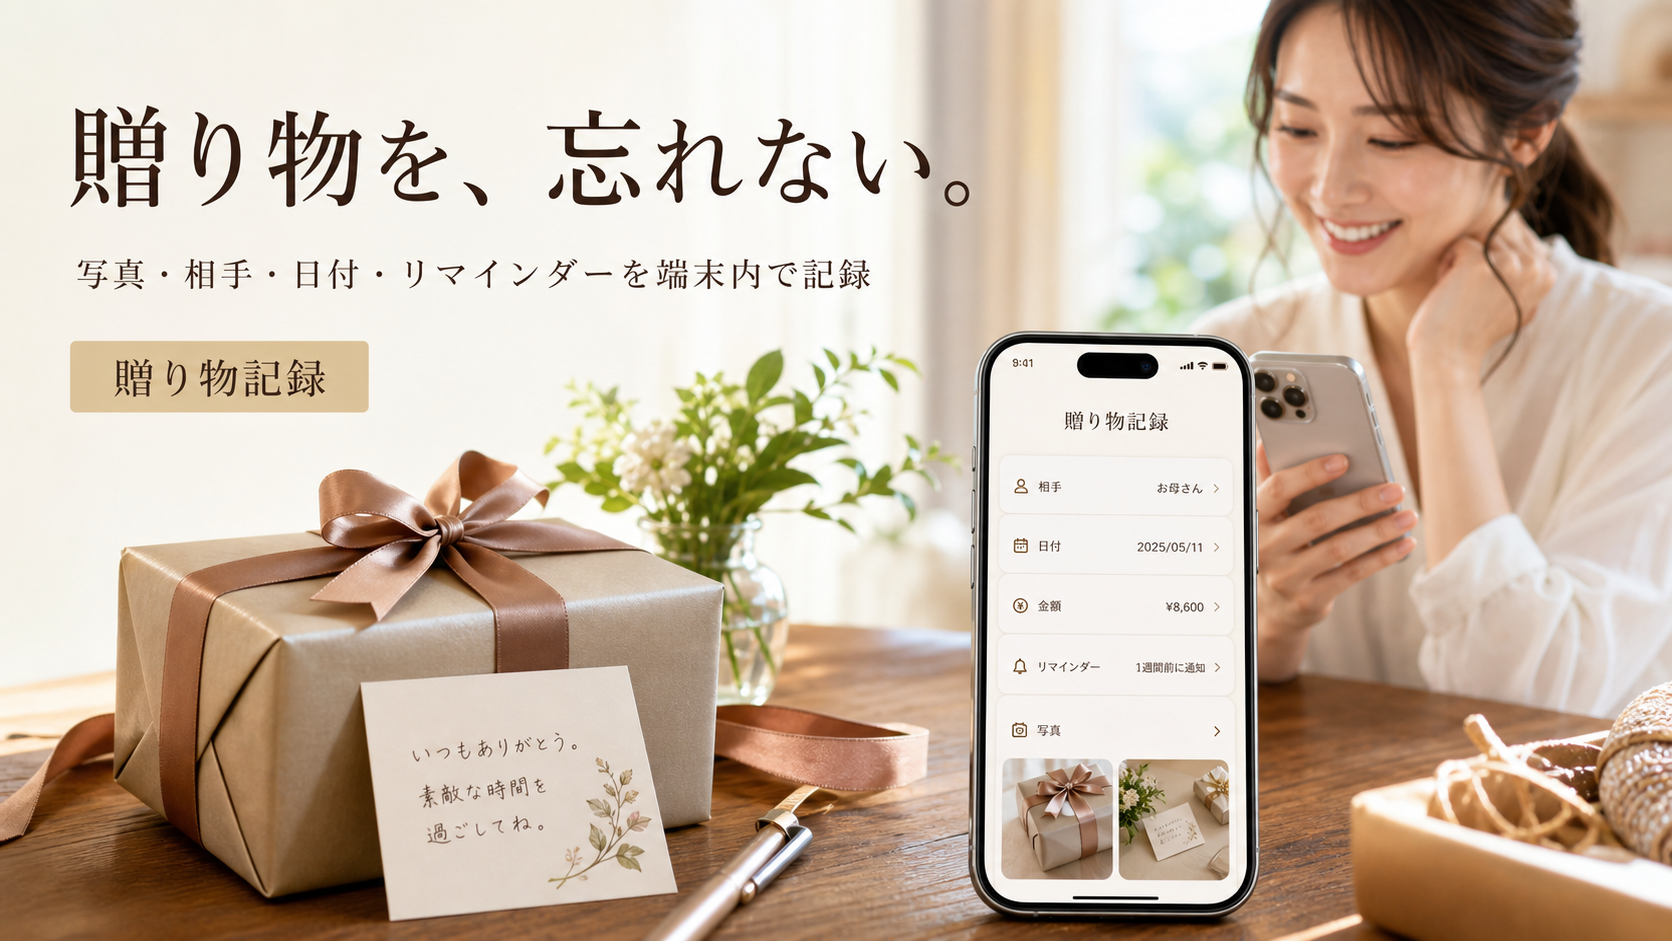
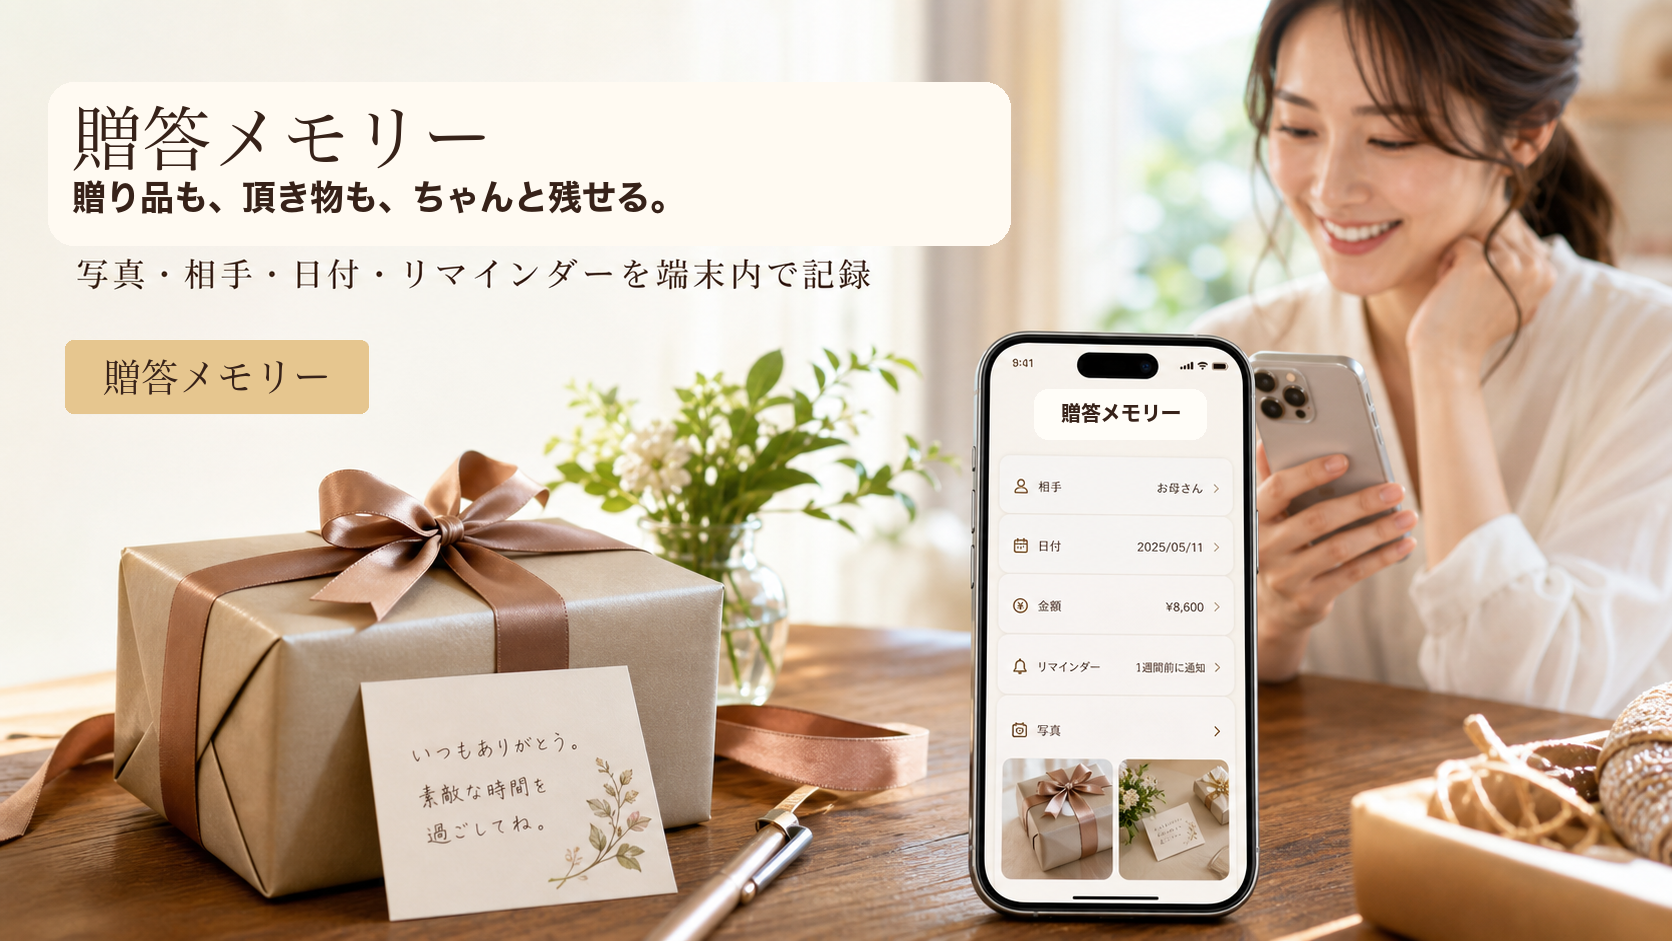
Restore varied LP visuals

Changed region(s): [[0.0311, 0.0616, 0.622, 0.2774], [0.0311, 0.3698, 0.2177, 0.4315], [0.622, 0.4315, 0.7153, 0.4623]]

diff --git a/manual.html b/manual.html
@@ -10,7 +10,7 @@
   <meta property="og:description" content="写真、相手、日付、金額目安、メモ、通知をiPhone内で残す贈答記録アプリの操作マニュアル。">
   <meta property="og:type" content="article">
   <meta property="og:url" content="https://okurimono-kiroku.bantex.jp/manual.html">
-  <meta property="og:image" content="https://okurimono-kiroku.bantex.jp/assets/app-ui-mockup.webp">
+  <meta property="og:image" content="https://okurimono-kiroku.bantex.jp/assets/ui-screens.png">
   <link rel="icon" href="assets/app-icon-premium.png">
   <link rel="preconnect" href="https://fonts.googleapis.com">
   <link rel="preconnect" href="https://fonts.gstatic.com" crossorigin>
@@ -811,7 +811,7 @@
       "@type": "HowTo",
       "name": "贈答メモリーの使い方",
       "description": "iPhoneで頂き物と贈り品を写真、相手、日付、金額目安、メモ、通知つきで記録する操作手順。",
-      "image": "https://okurimono-kiroku.bantex.jp/assets/app-ui-mockup.webp",
+      "image": "https://okurimono-kiroku.bantex.jp/assets/ui-screens.png",
       "step": [
         {
           "@type": "HowToStep",
@@ -865,7 +865,7 @@
           </div>
         </div>
         <figure class="image-frame">
-          <img src="assets/app-ui-mockup.webp" alt="贈答メモリーの記録一覧、人物履歴、カレンダー画面を並べた操作ガイド用スクリーンショット" width="1024" height="1024">
+          <img src="assets/ui-screens.png" alt="贈答メモリーの記録一覧、人物履歴、カレンダー画面を並べた操作ガイド用スクリーンショット" width="1672" height="941">
           <figcaption>左から記録一覧、人物履歴、カレンダー。普段はこの3画面を切り替えて使います。</figcaption>
         </figure>
       </div>
@@ -906,7 +906,7 @@
     <section id="record" class="manual-section" aria-labelledby="record-title">
       <div class="section-inner manual-grid">
         <figure class="image-frame phone-shot">
-          <img src="assets/app-ui-mockup.webp" alt="贈答メモリーの記録一覧画面。検索、絞り込み、並び替え、未返礼件数が見える" width="1024" height="1024">
+          <img src="assets/manual-record.jpg" alt="贈答メモリーの記録一覧画面。検索、絞り込み、並び替え、未返礼件数が見える" width="368" height="800">
           <figcaption>記録タブでは、検索、絞り込み、並び替え、未返礼確認を行います。</figcaption>
         </figure>
         <div class="manual-card">
@@ -983,7 +983,7 @@
           </ol>
         </div>
         <figure class="image-frame">
-          <img src="assets/app-ui-mockup.webp" alt="頂き物を写真付きで記録し、返礼候補を考える使用シーン" width="1024" height="1024">
+          <img src="assets/usage-recording.png" alt="頂き物を写真付きで記録し、返礼候補を考える使用シーン" width="1448" height="1086">
           <figcaption>頂き物を受け取った直後に写真と相手を残しておくと、あとから返礼を考えやすくなります。</figcaption>
         </figure>
       </div>
@@ -998,17 +998,17 @@
         </div>
         <div class="phone-row">
           <article class="phone-shot card">
-            <img src="assets/app-ui-mockup.webp" alt="記録一覧画面。日付順の贈答記録と未返礼件数を確認できる" width="1024" height="1024">
+            <img src="assets/manual-record.jpg" alt="記録一覧画面。日付順の贈答記録と未返礼件数を確認できる" width="368" height="800">
             <h3>記録一覧</h3>
             <p>最近の記録、未返礼、検索、頂き物/贈り品の絞り込みに使います。</p>
           </article>
           <article class="phone-shot card">
-            <img src="assets/app-ui-mockup.webp" alt="人物履歴画面。相手ごとに誕生日と記録件数が並ぶ" width="1024" height="1024">
+            <img src="assets/manual-history.jpg" alt="人物履歴画面。相手ごとに誕生日と記録件数が並ぶ" width="368" height="800">
             <h3>人物履歴</h3>
             <p>相手ごとに、頂き物と贈り品を時系列で確認します。</p>
           </article>
           <article class="phone-shot card">
-            <img src="assets/app-ui-mockup.webp" alt="カレンダー画面。誕生日、配送予定、返礼予定を月表示で確認できる" width="1024" height="1024">
+            <img src="assets/manual-calendar.jpg" alt="カレンダー画面。誕生日、配送予定、返礼予定を月表示で確認できる" width="368" height="800">
             <h3>カレンダー</h3>
             <p>誕生日、記念日、配送予定、返礼予定を月単位で確認します。</p>
           </article>
@@ -1035,7 +1035,7 @@
           </ol>
         </div>
         <figure class="image-frame phone-shot">
-          <img src="assets/app-ui-mockup.webp" alt="贈答メモリーのカレンダー画面。月表示で誕生日、配送予定、返礼予定が並んでいる" width="1024" height="1024">
+          <img src="assets/manual-calendar.jpg" alt="贈答メモリーのカレンダー画面。月表示で誕生日、配送予定、返礼予定が並んでいる" width="368" height="800">
           <figcaption>月表示で、次に準備する予定をまとめて確認できます。</figcaption>
         </figure>
       </div>
@@ -1044,7 +1044,7 @@
     <section id="reminder" class="manual-section alt" aria-labelledby="reminder-title">
       <div class="section-inner screen-grid">
         <figure class="image-frame">
-          <img src="assets/app-ui-mockup.webp" alt="贈答メモリーのリマインダー通知機能を説明する画像" width="1024" height="1024">
+          <img src="assets/reminder-flyer.png" alt="贈答メモリーのリマインダー通知機能を説明する画像" width="1122" height="1402">
           <figcaption>リマインダー通知は、用意する日を忘れないためのPRO機能です。</figcaption>
         </figure>
         <div class="manual-card">

diff --git a/index.html b/index.html
@@ -10,7 +10,7 @@
   <meta property="og:description" content="写真、相手、日付、金額目安、メモ、リマインダーをiPhone内でまとめて残す贈答記録アプリ。">
   <meta property="og:type" content="website">
   <meta property="og:url" content="https://okurimono-kiroku.bantex.jp/">
-  <meta property="og:image" content="https://okurimono-kiroku.bantex.jp/assets/app-ui-mockup.webp">
+  <meta property="og:image" content="https://okurimono-kiroku.bantex.jp/assets/hero-flyer.png">
   <link rel="icon" href="assets/app-icon-premium.png">
   <link rel="preconnect" href="https://fonts.googleapis.com">
   <link rel="preconnect" href="https://fonts.gstatic.com" crossorigin>
@@ -903,7 +903,7 @@
           </div>
         </div>
         <figure class="image-card">
-          <img src="assets/app-ui-mockup.webp" alt="贈答メモリーのアプリ画面イメージ" width="1024" height="1024">
+          <img src="assets/hero-flyer.png" alt="贈答メモリーの利用シーンとキャッチコピーを入れたメインビジュアル" width="1672" height="941">
           <figcaption>写真・相手・日付・<span class="keep">リマインダー</span>を端末内で記録する、贈答メモリーの画面イメージ。</figcaption>
         </figure>
       </div>
@@ -944,7 +944,7 @@
     <section id="features" class="feature-section" aria-labelledby="features-title">
       <div class="section-inner feature-layout">
         <figure class="image-card">
-          <img src="assets/app-ui-mockup.webp" alt="頂き物と贈り品を写真付きで残す贈答メモリーの画面イメージ" width="1024" height="1024">
+          <img src="assets/usage-recording.png" alt="頂き物を写真、相手、日付、金額目安付きで記録する使用シーン" width="1448" height="1086">
         </figure>
         <div>
           <div class="section-title">
@@ -1018,7 +1018,7 @@
           <p>日付順の一覧、相手ごとの贈答履歴、誕生日や記念日のカレンダーを切り替えて確認できます。</p>
         </div>
         <figure class="image-card screen-showcase">
-          <img src="assets/app-ui-mockup.webp" alt="日付順一覧や人物別履歴を扱う贈答メモリーの画面イメージ" width="1024" height="1024">
+          <img src="assets/ui-screens.png" alt="日付順一覧、人物別履歴、記念日カレンダーを並べた贈答メモリーのUI画面イメージ" width="1672" height="941">
         </figure>
       </div>
     </section>
@@ -1032,21 +1032,21 @@
         </div>
         <div class="gallery-grid">
           <article class="gallery-card standard card">
-            <img src="assets/app-ui-mockup.webp" alt="頂き物を受け取った後に写真付きで記録する画面イメージ" width="1024" height="1024">
+            <img src="assets/usage-recording.png" alt="頂き物を受け取った後に写真付きで記録する使用シーン" width="1448" height="1086">
             <div>
               <h3>頂き物を受け取った直後に記録</h3>
               <p>写真、相手、日付、金額目安をその場で保存。返礼候補やメモも追記できます。</p>
             </div>
           </article>
           <article class="gallery-card wide card">
-            <img src="assets/app-ui-mockup.webp" alt="連絡先や記念日と贈答履歴を結び付けて管理する画面イメージ" width="1024" height="1024">
+            <img src="assets/ui-screens.png" alt="連絡先や記念日と贈答履歴を結び付けて管理するアプリ画面" width="1672" height="941">
             <div>
               <h3>見たい軸で確認</h3>
               <p>日付順、対象者順、誕生日や記念日の予定を切り替えられます。</p>
             </div>
           </article>
           <article class="gallery-card tall card">
-            <img src="assets/app-ui-mockup.webp" alt="返礼忘れを防ぐための通知管理画面イメージ" width="1024" height="1024">
+            <img src="assets/reminder-flyer.png" alt="返礼忘れを防ぐ通知機能とPRO価格のプロモーション画像" width="1122" height="1402">
             <div>
               <h3>返礼忘れを防ぐ</h3>
               <p>必要なタイミングで「用意しましたか？」を通知します。</p>
@@ -1080,7 +1080,7 @@
           </div>
         </div>
         <figure class="image-card">
-          <img src="assets/app-ui-mockup.webp" alt="贈り品と頂き物の通知管理をイメージしたアプリ画面" width="1024" height="1024">
+          <img src="assets/reminder-flyer.png" alt="大切な予定を残せることを伝える通知機能とPRO価格のプロモーション画像" width="1122" height="1402">
         </figure>
       </div>
     </section>
